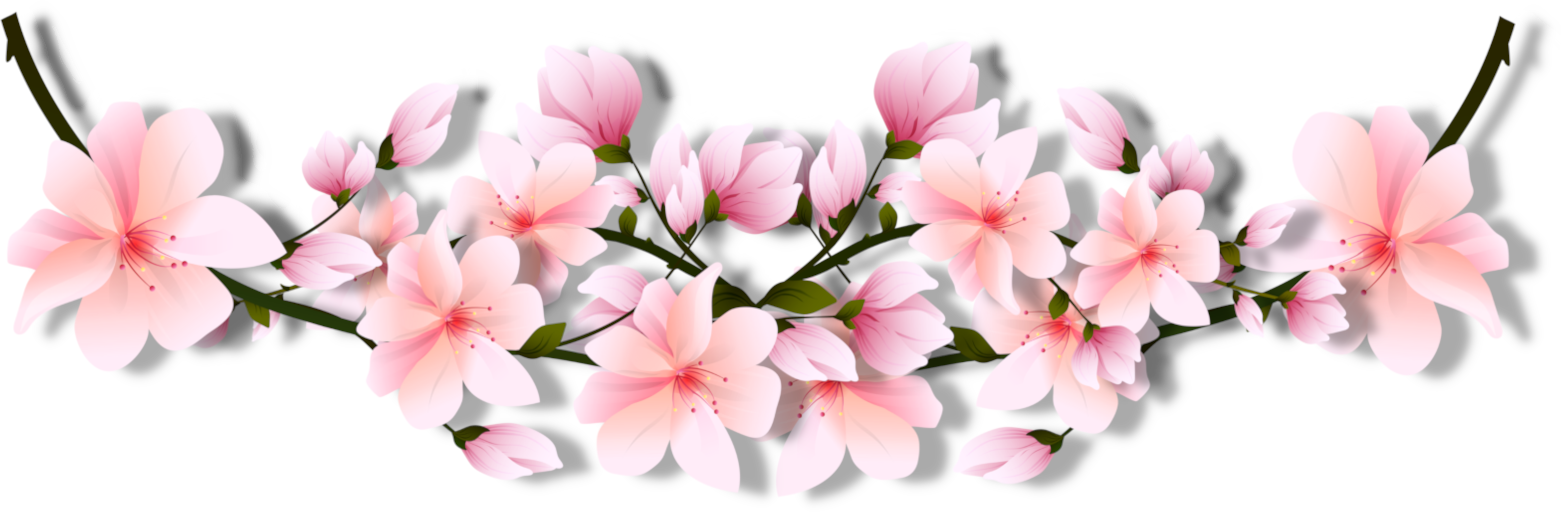
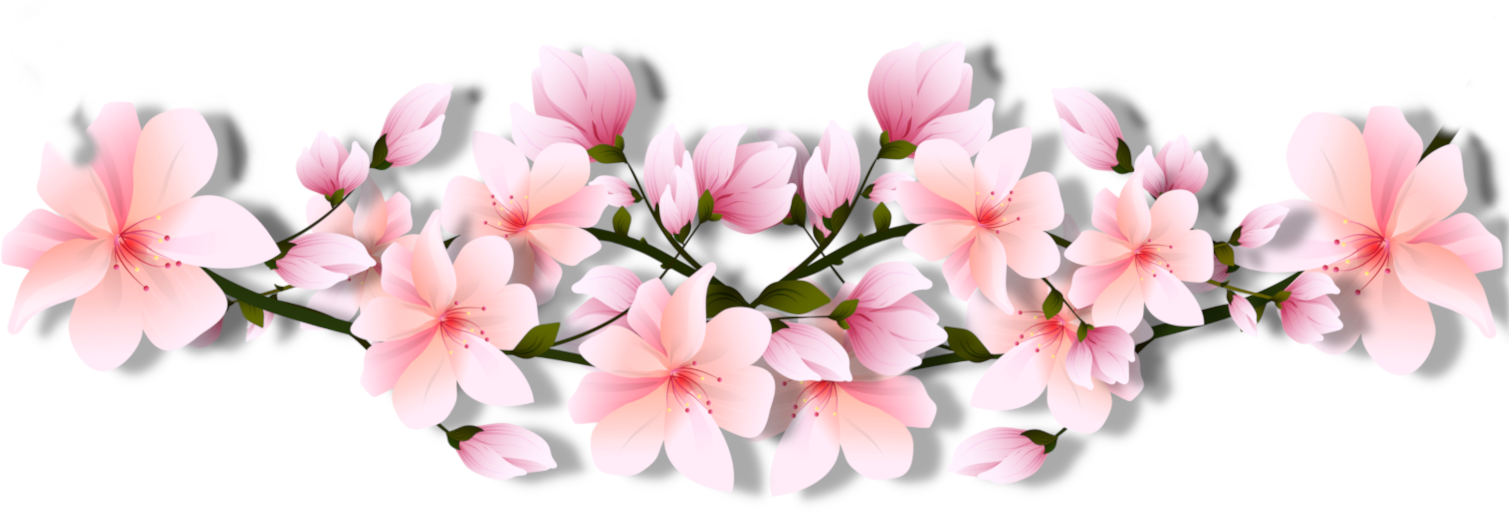
Updtae

diff --git a/sitio_web/html/invitacion.html b/sitio_web/html/invitacion.html
@@ -1,45 +1,33 @@
 
 <div class="separador" style="z-index:100;">
-    
         <img src="../.././sitio_web/img/separador.png" width="100%">
-    
 </div>
-
-<div class="separador sombra"  style="z-index:20; background-color: white;">    
+<div class="separador sombra"  style="z-index:20; background-color: white; ">    
     <div class="container subtitulo">{tipo_evento}</div>
     <div class="container titulo cursiva">{nombre_evento}</div>
     <div class="container subtitulo ">{fecha_evento}</div>
 </div>
-
-
-
  <div class="container subtitulo2">{qr}</div>
 
 
-<div id="separador" style="z-index:30; height: 280px;">
-    <img src="../.././sitio_web/img/separador2.png" width="100%">
-</div>
 
-
-<div class="separador sombra" style=" height: 1px;">
-    <div style="position:absolute; top:-70px; z-index:20;">
+<div style="position:relative; width: 100%; margin-bottom: 160px;">
+    <div style="position:absolute;">
+        <img src="../.././sitio_web/img/separador2.png" width="100%">
+    </div>    
+    <div style="padding-top: 160px;">
         <img src="../.././sitio_web/img/fondo2.jpg" width="100%">
-    </div>
-</div>
-
-<div id="separador" class="sombra" style="z-index:20; height: 1000px;">
-</div>
-
-<div class="separador" style="z-index:100; height: 110px;">
-    <div style="position:absolute; top: -250px;">
+    </div>    
+    <div style="position:absolute; bottom:-160px;">
         <img src="../.././sitio_web/img/separador.png" width="100%">
-    </div>
+    </div>    
 </div>
+
 
 
 <div class="container titulo">{nombre_invitado}</div>
 <div class="container subtitulo">
-    Deseamos que nos acompañen <br> con toda su alegría y buena vibra <br> a Nuestra boda.
+    {descripcion_evento}
 </div>        
 
 
@@ -48,22 +36,20 @@
 
 
 
-<div id="separador" style="z-index:30; height: 280px;">
-    <img src="../.././sitio_web/img/separador2.png" width="100%">
-</div>
 
-<div class="separador sombra" style=" height: 1000px;">
-    <div style="position:absolute; top:-60px; z-index:20;">
+
+<div style="position:relative; width: 100%; margin-bottom: 160px;">
+    <div style="position:absolute;">
+        <img src="../.././sitio_web/img/separador2.png" width="100%">
+    </div>    
+    <div style="padding-top: 160px;">
         <img src="../.././sitio_web/img/fondo3.jpg" width="100%">
-    </div>
+    </div>    
+    <div style="position:absolute; bottom:-160px;">
+        <img src="../.././sitio_web/img/separador.png" width="100%">
+    </div>    
 </div>
 
-</div>
-<div class="separador" style="z-index:100; height: 110px;">
-    <div style="position:absolute; top: -250px;">
-        <img src="../.././sitio_web/img/separador.png" width="100%">
-    </div>
-</div>
 
 <div class="container titulo cursiva">{invitado1_evento}</div>
 <div class="container subtitulo">{tipoinvitado1_evento}</div>
@@ -74,24 +60,19 @@
 
 
 
-
-
-
-<div id="separador" style="z-index:30; height: 280px;">
-    <img src="../.././sitio_web/img/separador2.png" width="100%">
-</div>
-
-<div class="separador sombra" style=" height: 1000px;">
-    <div style="position:absolute; top:-60px; z-index:20;">
+<div style="position:relative; width: 100%; margin-bottom: 160px;">
+    <div style="position:absolute;">
+        <img src="../.././sitio_web/img/separador2.png" width="100%">
+    </div>    
+    <div style="padding-top: 160px;">
         <img src="../.././sitio_web/img/fondo4.jpg" width="100%">
-    </div>
+    </div>    
+    <div style="position:absolute; bottom:-160px;">
+        <img src="../.././sitio_web/img/separador.png" width="100%">
+    </div>    
 </div>
 
-<div class="separador" style="z-index:100; height: 110px;">
-    <div style="position:absolute; top: -250px;">
-        <img src="../.././sitio_web/img/separador.png" width="100%">
-    </div>
-</div>
+
 
 <div class="container titulo">{misa_evento}</div>
 <div class="container subtitulo">{fmisa_evento}</div>
@@ -111,44 +92,20 @@
 
 
 
-<div id="separador" style="z-index:30; height: 280px;">
-    <img src="../.././sitio_web/img/separador2.png" width="100%">
-</div>
-
-<div class="separador sombra" style=" height: 100x;">
-    <div style="position:absolute; top:-60px; z-index:20;">
-        <img src="../.././sitio_web/img/fondo5.jpg" width="100%">
-    </div>
-</div>
-
-<div id="separador" class="sombra" style="z-index:20; height: 680px;">
-</div>
-<div class="separador" style="z-index:100; height: 110px;">
-    <div style="position:absolute; top: -250px;">
+<div style="position:relative; width: 100%; margin-bottom: 160px;">
+    <div style="position:absolute;">
+        <img src="../.././sitio_web/img/separador2.png" width="100%">
+    </div>    
+    <div style="padding-top: 160px;">
+        <img src="../.././sitio_web/img/fondo4.jpg" width="100%">
+    </div>    
+    <div style="position:absolute; bottom:-160px;">
         <img src="../.././sitio_web/img/separador.png" width="100%">
-    </div>
+    </div>    
 </div>
 
-<!--
-<div class="container subtitulo">Tu presencia es lo más importante, y si es tu deseo hacernos un obsequio, lo podrás hacer </div>
-    <table border="0" >
-        <tr>
-            <td>
-                <img src="../.././sitio_web/img/regalos.png" >
-            </td>
-            <td class="container subtitulo">
-                <div id="separador" class="sombra" style="z-index:20;">
-                    <div class="container subtitulo">
-                        en un sobre durante el evento <br><br>
-                        en la CLABE 012975474548768498 <br> De Maria Heidi del Pilar Vizcaino Granados<br><br>
-                        o en las mesas de regalos:</div>
-                    <div class="container subtitulo">La Marina 2075</div>
-                    <div class="container subtitulo">Liverpol 51423238</div>
-                </div>
-            </td>
-        </tr>
-    </table>
--->
+
+
 <div class="container titulo">{salon_evento}</div>
 <div class="container subtitulo">{fsalon_evento}</div>
 <div class="container subtitulo">{tsalon_evento}</div>
@@ -159,24 +116,19 @@
 
 <div class="container subtitulo2">{files}</div>
 
-<div id="separador" style="z-index:30; height: 280px;">
-    <img src="../.././sitio_web/img/separador2.png" width="100%">
-</div>
 
-<div class="separador sombra" style=" height: 100x;">
-    <div style="position:absolute; top:-60px; z-index:20;">
-        <img src="../.././sitio_web/img/fondo6.jpg" width="100%">
-    </div>
-</div>
-
-<div id="separador" class="sombra" style="z-index:20; height: 740px;">
-</div>
-<div class="separador" style="z-index:100; height: 120px;">
-    <div style="position:absolute; top: -210px;">
+<div style="position:relative; width: 100%; margin-bottom: 160px;">
+    <div style="position:absolute;">
+        <img src="../.././sitio_web/img/separador2.png" width="100%">
+    </div>    
+    <div style="padding-top: 160px;">
+        <img src="../.././sitio_web/img/fondo2.jpg" width="100%">
+    </div>    
+    <div style="position:absolute; bottom:-160px;">
         <img src="../.././sitio_web/img/separador.png" width="100%">
-    </div>
+    </div>    
 </div>
-
 
 
 <div class="container subtitulo">Esperamos tu puntual asistencia</div>
+

diff --git a/modelo/invitado.php b/modelo/invitado.php
@@ -11,7 +11,7 @@
          
 		public function __CONSTRUCT($option=null)
 		{	
-			$aux_comando="";
+			$aux_comando=" AND i.id_invitado=''";
 			if(isset($_REQUEST["id_invitado"]))
 			{
 				$aux_comando=" AND i.id_invitado='{$_REQUEST["id_invitado"]}'";
@@ -29,10 +29,9 @@
 				SELECT * 
 				FROM 
 					evento e left join 
-					invitado i on i.id_evento=md5(e.id_evento)
+					invitado i on i.id_evento=md5(e.id_evento) $aux_comando
 				WHERE
-					md5(e.id_evento)='{$_REQUEST["id"]}'
-					$aux_comando
+					md5(e.id_evento)='{$_REQUEST["id"]}'					
 				LIMIT 1	
 			";		
 
@@ -40,8 +39,18 @@
 			#i.id_invitado='{$_REQUEST["id"]}'		
 			$this->fields		= @$this->__EXECUTE($comando_sql)[0];
 
+			
+
 			if(is_array($this->fields))
+			{
+				if($this->fields["nombre_invitado"]=="")
+				{
+					$this->fields["nombre_invitado"]="Nombre";
+					$this->fields["telefono_invitado"]="Telefono";
+				}	
 				$this->words 		= @array_merge(@$this->words, @$this->fields);
+			}	
+				
 
 			if(isset($_REQUEST["id_invitado"]))
 			{
@@ -60,7 +69,7 @@
 
 		public function __SAVE()
 		{	
-			if(isset($_REQUEST["nombre_invitado"]) and $_REQUEST["nombre_invitado"]!="")
+			if(isset($_REQUEST["nombre_invitado"]) and ($_REQUEST["nombre_invitado"]!="" OR $_REQUEST["nombre_invitado"]!="Nombre"))
 			{
 				if(isset($_REQUEST["id_invitado"]) and $_REQUEST["id_invitado"]!="")	
 					$comando_sql				="

diff --git a/controlador/eventos.php b/controlador/eventos.php
@@ -4,10 +4,10 @@
 	$objeto			=new eventos();
 
 	//$objeto->words["html_head_css"]			="default"; 
-	$objeto->words["html_head_title"]		.="Invitacion";
+	$objeto->words["html_head_title"]		.="Evento";
 	
-	$objeto->words["html_head_description"]		="Esta seccion es un clilaquil de designios";
-	$objeto->words["html_head_keywords"]		="Designia, Designia.vip, Eventos, events";
+	$objeto->words["html_head_description"]		="Aqui podras administrar los boletos de tus invitados";
+	$objeto->words["html_head_keywords"]		="Boletos, LosBoletos, LosBoletos.vip, Evento, events";
 
 	#$objeto->__PRINT_R($_REQUEST);
 	

diff --git a/modelo/eventos.php b/modelo/eventos.php
@@ -24,6 +24,9 @@
 			";				
 			$this->datas				= $this->__EXECUTE($comando_sql);
 
+
+			
+
 			#$this->__PRINT_R($this->datas);
 
 			$datas="";
